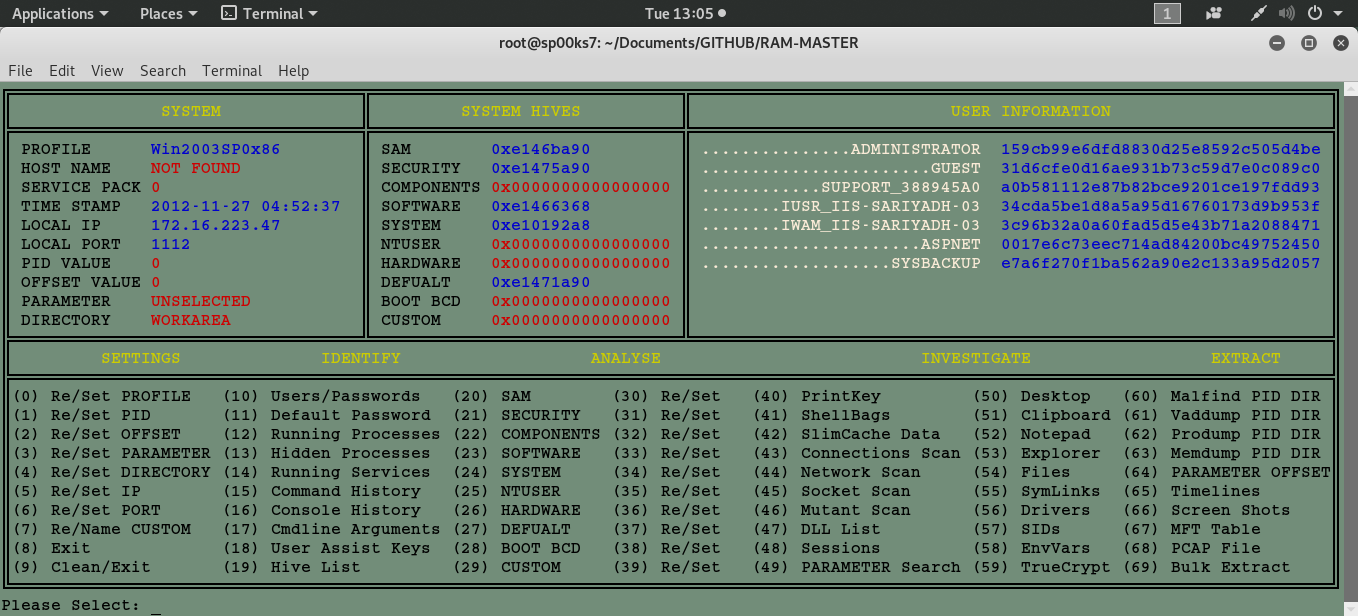
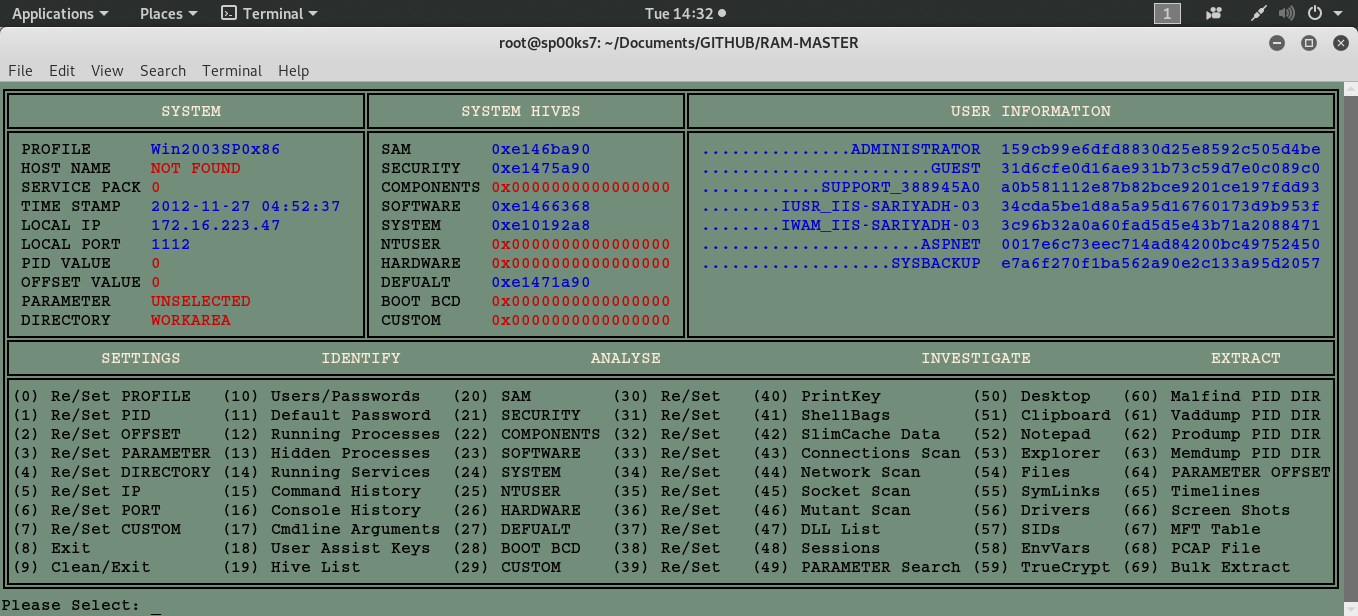
changes

diff --git a/RamMaster.py b/RamMaster.py
@@ -309,7 +309,7 @@ os.remove('conn1.txt')
 
 def Display():
    print u'\u2554' + (u'\u2550')*35 + u'\u2566' + (u'\u2550')*31 + u'\u2566' + (u'\u2550')*64 + u'\u2557'
-   print u'\u2551' + (" ")*15 + colored("SYSTEM",'yellow') +  (" ")*14 + u'\u2551' + (" ")*9 + colored("SYSTEM HIVES",'yellow') + (" ")*10 + u'\u2551' + (" ")*26 +  colored("USER INFORMATION",'yellow') + (" ")*22 + u'\u2551' 
+   print u'\u2551' + (" ")*15 + colored("SYSTEM",'white') +  (" ")*14 + u'\u2551' + (" ")*9 + colored("SYSTEM HIVES",'white') + (" ")*10 + u'\u2551' + (" ")*26 +  colored("USER INFORMATION",'white') + (" ")*22 + u'\u2551' 
    print u'\u2560' + (u'\u2550')*35 + u'\u256C' + (u'\u2550')*31 + u'\u256C' + (u'\u2550')*64 + u'\u2563'
    
    print u'\u2551' + " PROFILE     ",
@@ -323,7 +323,7 @@ def Display():
    else:
       print colored(SAM,'blue'),
    print u'\u2551',
-   print colored(US[0].upper(),'white'),
+   print colored(US[0].upper(),'blue'),
    print colored(PA[0],'blue'),
    print u'\u2551'
    
@@ -338,7 +338,7 @@ def Display():
    else:
       print colored(SEC,'blue'),
    print u'\u2551',
-   print colored(US[1].upper(),'white'),
+   print colored(US[1].upper(),'blue'),
    print colored(PA[1],'blue'),
    print u'\u2551'
    
@@ -353,7 +353,7 @@ def Display():
    else:
       print colored(COM,'blue'),
    print u'\u2551',
-   print colored(US[2].upper(),'white'),
+   print colored(US[2].upper(),'blue'),
    print colored(PA[2],'blue'),
    print u'\u2551'
    
@@ -368,7 +368,7 @@ def Display():
    else:
       print colored(SOF,'blue'),
    print u'\u2551',
-   print colored(US[3].upper(),'white'),
+   print colored(US[3].upper(),'blue'),
    print colored(PA[3],'blue'),
    print u'\u2551'
    
@@ -383,7 +383,7 @@ def Display():
    else:
       print colored(SYS,'blue'),
    print u'\u2551',
-   print colored(US[4].upper(),'white'),
+   print colored(US[4].upper(),'blue'),
    print colored(PA[4],'blue'),
    print u'\u2551'
    
@@ -398,7 +398,7 @@ def Display():
    else:
       print colored(NTU,'blue'),
    print u'\u2551',
-   print colored(US[5].upper(),'white'),
+   print colored(US[5].upper(),'blue'),
    print colored(PA[5],'blue'),
    print u'\u2551'
    
@@ -413,7 +413,7 @@ def Display():
    else:
       print colored(HRD,'blue'),
    print u'\u2551',
-   print colored(US[6].upper(),'white'),
+   print colored(US[6].upper(),'blue'),
    print colored(PA[6],'blue'),
    print u'\u2551'
    
@@ -428,7 +428,7 @@ def Display():
    else:
       print colored(DEF,'blue'),
    print u'\u2551',
-   print colored(US[7].upper(),'white'),
+   print colored(US[7].upper(),'blue'),
    print colored(PA[7],'blue'),
    print u'\u2551'
    
@@ -443,7 +443,7 @@ def Display():
    else:
       print colored(BCD,'blue'),
    print u'\u2551',
-   print colored(US[8].upper(),'white'),
+   print colored(US[8].upper(),'blue'),
    print colored(PA[8],'blue'),
    print u'\u2551'
    
@@ -458,7 +458,7 @@ def Display():
    else:
       print colored(CUS,'blue'),
    print u'\u2551',
-   print colored(US[9].upper(),'white'),
+   print colored(US[9].upper(),'blue'),
    print colored(PA[9],'blue'),
    print u'\u2551'
 
@@ -468,15 +468,15 @@ def Display():
 
    print u'\u2551',
    print " "*7,
-   print colored("SETTINGS",'yellow'),
+   print colored("SETTINGS",'white'),
    print " "*12,
-   print colored("IDENTIFY",'yellow'),
+   print colored("IDENTIFY",'white'),
    print " "*17,
-   print colored("ANALYSE",'yellow'),
+   print colored("ANALYSE",'white'),
    print " "*24,
-   print colored("INVESTIGATE",'yellow'),
+   print colored("INVESTIGATE",'white'),
    print " "*16,
-   print colored("EXTRACT",'yellow'),
+   print colored("EXTRACT",'white'),
    print " "*3,
    print u'\u2551'
 

diff --git a/README.md b/README.md
@@ -5,7 +5,7 @@ Usage: python RamMaster dumpfile.mem
 
 | LANGUAGE  | FILENAME         | MD5 Hash                         |
 |------     |------            | -------                          |
-| python    | RamMaster.py     | d1c1e4e23f913c21cf9f0ef193d7c2cb |
+| python    | RamMaster.py     | a64b59daabac9b350cd655569e36359e |
 | text file | profiles.txt     | ba638a0a6f9d322100809bd6e67427d6 |
 | bash file | patch.sh         | 7a4231731982e09d9a703f7357170755 |
 
